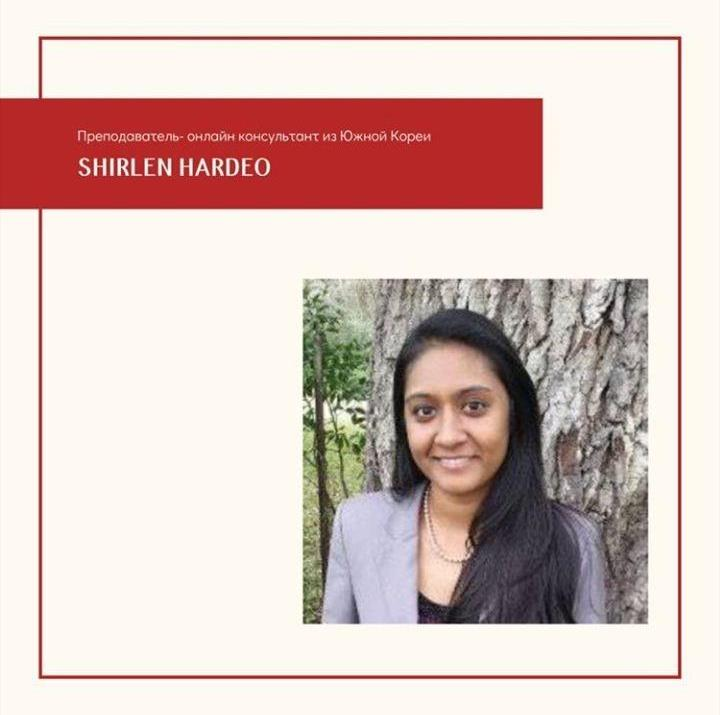
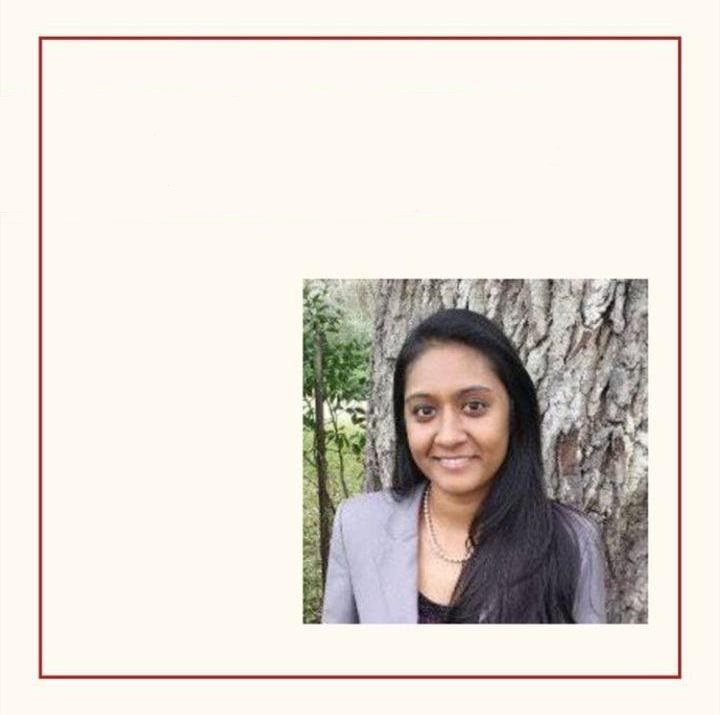
fixed price-menu

Changed region(s): [[0.0, 0.1231, 0.7639, 0.3077]]

diff --git a/docs/index.html b/docs/index.html
@@ -137,14 +137,13 @@
         </div>
         <div id="teachers">
           <div class="topic">ПРЕПОДАВАТЕЛИ</div>
-          <div class="tracery"><img src="images/tracery.jpg" /></div>
           <div id="Mulile" class="teacher">
             <div class="photo">
               <img src="images/photo_20-59-34.jpg" />
             </div>
             <div id="info">
-              <div class="info" style="font-size: 20px;">Преподаватель</div>
-              <div class="info">MR. EMMANUEL MULILE</div>
+              <div class="mulile-info" style="font-size: 20px;">Преподаватель</div>
+              <div class="mulile-info">EMMANUEL MULILE</div>
               <ul style="list-style-type: square">
                 <li>
                   Высшее образование: Казанский (Приволжский) федеральный
@@ -175,7 +174,9 @@
             </div>
           </div>
           <div id="Hardeo" class="teacher">
-            <div class="info">видео?</div>
+            <div class="hardeo-info">
+              <div style="font-size: 20px;">Преподаватель-онлайн консультант</div>
+              <div>SHIRLEN HARDEO</div></div>
             <div class="photo">
               <img src="images/photo_19-20-13.jpg" />
             </div>
@@ -183,7 +184,6 @@
         </div>
         <div id="certificates">
           <div class="topic">СЕРТИФИКАТЫ</div>
-          <div class="tracery"><img src="images/tracery.jpg" /></div>
           <div class="gallery">
             <div class="preview">
               <img class="active" src="images/c19-25-39.jpg" />
@@ -194,12 +194,48 @@
         </div>
         <div id="price">
           <div class="topic">ЦЕНЫ</div>
-          <div class="tracery"><img src="images/tracery.jpg" /></div>
-          <div><img src="images/photo_price.jpg"></div>
+            <div class="price-menu">
+              <div><img style="height: 750px;" src="images/photo_price_line.jpg"></div>
+              <div class="price-info">
+                <div class="row-color" style="width: 70%;">ВСЕ ЗАНЯТИЯ ПРОВОДЯТСЯ С НОСИТЕЛЕМ АНГЛИЙСКОГО ЯЗЫКА</div>
+                <div class="row-black">цены указаны в рублях</div>
+                <div style="height: 30px;"></div>
+                <div class="row-color">ИНДИВИДУАЛЬНЫЕ ЗАНЯТИЯ</div>
+                <div class="row-black">ДЛЯ ДЕТЕЙ</div>
+                <div class="row-black">
+                  <div class="price-row"><div>Общий английский</div><div>1300</div></div>
+                  <div class="price-row"><div>Подготовка к международным экзаменам</div><div>1500</div></div>
+                  <div class="price-row"><div>Подготовка к общероссийским экзаменам</div><div>1400</div></div>
+                  <div class="line-red"></div>
+                </div>
+                <div class="row-black">ДЛЯ ВЗРОСЛЫХ</div>
+                <div class="row-black">
+                  <div class="price-row"><div>Общий английский</div><div>1500</div></div>
+                  <div class="price-row"><div>Подготовка к международным экзаменам IELTS, TOEFL, SAT, GMAT</div><div>1600</div></div>
+                  <div class="price-row"><div>Бизнес-английский</div><div>1600</div></div>
+                  <div class="line-red"></div>
+                </div>
+                <div class="row-color">ГРУППОВЫЕ ЗАНЯТИЯ</div>
+                <div class="row-black">ДЛЯ ДЕТЕЙ</div>
+                <div class="row-black">
+                  <div class="price-row"><div>Общий английский для детей до 10 лет, (занятие 45 мин.)</div><div>700</div></div>
+                  <div class="price-row"><div>Общий английский для детей старше 10 лет, (занятие 1ч.10мин.)</div><div>1000</div></div>
+                  <div class="price-row"><div>Английский в игровой форме для детей от 3-х лет, (занятие 30 мин.)</div><div>450</div></div>
+                  <div class="line-red"></div>
+                </div>
+                <div class="row-black">ДЛЯ ВЗРОСЛЫХ</div>
+                <div class="row-black">
+                  <div class="price-row"><div>Общий английский, (занятие 45 мин.)</div><div>950</div></div>
+                  <div class="price-row"><div>Бизнес-английский (корпоративный, 60 мин.)</div><div>1100</div></div>
+                </div>
+                <div class="row-black">*максимально 8 человек в группе</div>
+                <div class="row-black">*цены указаны за 1 чел.</div>
+                <div class="row-black">*занятие длится 1 ак.час, если не указано иное</div>
+              </div>          
+            </div>
         </div>
         <div id="thanks">
           <div class="topic">БЛАГОДАРНОСТЬ</div>
-          <div class="tracery"><img src="images/tracery.jpg" /></div>
           <div class="gallery">
             <div class="preview">
               <img class="active" src="images/g19-25-58.jpg" />

diff --git a/docs/styles/style.css b/docs/styles/style.css
@@ -66,7 +66,7 @@ a {
   cursor: pointer;
   text-decoration: none;
 }
-a:hover {
+.contact a:hover {
   text-decoration: underline;
 }
 
@@ -99,7 +99,7 @@ h1 {
 }
 h2 {
   font-size: 15px;
-  margin-inline-start: 20px;
+  margin-inline-start: 0px;
 }
 h3 {
   font-size: 16px;
@@ -111,19 +111,21 @@ h3 {
   display: flex;
   flex-direction: column;
   justify-content: start;
+  margin-right: 10px;
 }
 
 #Mulile {
   display: flex;
   flex-direction: row;
-  height: 490px;
+  height: 425px;
+  margin-left: 10px;
 }
 
 .photo img {
-  width: 425px;
+  height: 400px;
 }
 
-.info {
+.mulile-info {
   padding-left: 23px;
   font-size: 21px;
 }
@@ -133,27 +135,74 @@ li {
 }
 
 #Hardeo {
-  height: 490px;
+  height: 425px;
   display: flex;
   flex-direction: row;
   justify-content: flex-end;
+}
+
+.hardeo-info {
+  width: 55%;
+  display: flex;
+  flex-direction: column;
+  justify-content: flex-start;
+  padding-left: 9px;
+  font-size: 21px;
 }
 
 .topic {
   font-size: 22px;
   font-weight: bold;
   padding-top: 30px;
-  display: flex;
-  justify-content: center;
+  text-align: center;
+  border-bottom: 8px solid white;
+  padding-bottom: 5px;
+  margin-bottom: 12px;
 }
 
-.tracery img {
+/* .tracery img {
   height: auto;
   width: 880px;
+} */
+
+.price-menu {
+  background-color: white;
+  display: flex;
+  flex-direction: row;
+  justify-content: left;
+  height: 750px;
 }
 
-/* #price img {
-  padding: 0;
+.price-info {
   display: flex;
-  justify-content: center;
-} */
+  flex-direction: column;
+  justify-content: left;
+  font-size: 22px;
+  font-weight: bold;
+  padding-top: 30px;
+  padding-left: 25px;
+}
+
+.row-black {
+  color: black;
+  font-size: smaller;
+}
+.row-color {
+  color: rgb(181, 40, 40);
+  font-weight: bold;
+  font-family: none;
+  font-size: normal;
+}
+
+.price-row {
+  display: flex;
+  flex-direction: row;
+  justify-content: left;
+}
+
+.line-red {
+  border-bottom: 8px solid rgb(181, 40, 40);
+  width: 96%;
+  padding-top: 10px;
+  margin-bottom: 10px;
+}
